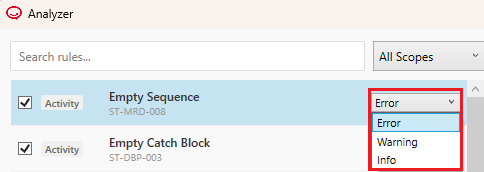
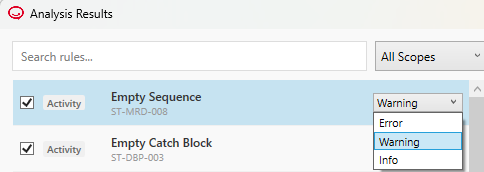
docs: add Japanese translations for Office 365 categories and Studio development guidelines

diff --git a/docs/studio/latest/user-guide/development-guidelines.md b/docs/studio/latest/user-guide/development-guidelines.md
@@ -1,0 +1,332 @@
+---
+id: development-guidelines
+title: Development Guidelines
+sidebar_label: Development Guidelines
+sidebar_position: 10
+description: Recommended rules for building automation projects with akaBot Studio, covering project setup, workflow design, naming, security, logging, selectors, and quality checks with Workflow Analyzer.
+displayed_sidebar: studioSidebar
+---
+
+# Development Guidelines
+
+This guide describes the rules to follow when you build automation projects with akaBot Studio. Following them helps the people who maintain, review, and run your robot, such as teammates, reviewers, and administrators, read and understand it.
+
+Many of the rules in this guide are checked automatically by [Workflow Analyzer](./workflow-analyzer/about-workflow-analyzer.md). Where a rule is enforced by Workflow Analyzer, the guide gives its rule ID, for example `ST-MRD-009`, and its default value.
+
+## Who should read this guide
+
+This guide is for developers and citizen automators who use akaBot Studio to build automation projects. The robots that run your projects are either Attended or Unattended.
+
+| | Attended | Unattended |
+| --- | --- | --- |
+| **Strength** | Assists individual users with small, repetitive tasks, and collaborates with humans to complete long-running processes. | Runs long processes without human interaction. |
+| **How it starts** | A user or a specific user event triggers the process. | The robot is assigned tasks and scheduled to run through akaBot Center. |
+| **Where Agent runs** | On the same machine where the user does daily work. | On any machine connected to akaBot Center. |
+
+For more details, see [Attended - Unattended Agent](/docs/agent/latest/user-guide/attended-unattended.md).
+
+## 1. Before you start
+
+### 1.1. Activate your license
+
+akaBot Studio needs a license before you can use it. Choose the activation method that suits your environment:
+
+- **Online Activation**: for a Standard license on a computer with an Internet connection.
+- **Offline Activation**: for a Standard license on a computer without an Internet connection.
+- **Activation through akaBot Center**: for an Enterprise (Network) license. Your Studio computer must be able to connect to your akaBot Center.
+
+When Studio starts, choose **LMS (License Management System)** for a Standard license, or **akaBot Center** for an Enterprise (Network) license. For a Standard license, you then choose Online or Offline activation.
+
+![Choose the license type in the akaBot activation window](/static/img/image-20230717142628-1.png)
+
+![Choose Online or Offline activation](/static/img/image-20230717142628-2.png)
+
+If your network connects to the Internet or akaBot Center through a proxy server, prepare the proxy information before you activate. For the full steps, see [License Activation](../installation/activation.md).
+
+### 1.2. Check your package sources
+
+Studio installs activity packages from package sources. By default, Studio uses these sources:
+
+| Source | Location |
+| --- | --- |
+| Local folder for the current user | `%localappdata%\akaBot\Packages` |
+| Local folder for the machine | `%programdata%\akaBot\Packages` |
+| NuGet.org | `https://api.nuget.org/v3/index.json` |
+| akaBot package feed on GitLab | `https://gitlab.com/api/v4/projects/75840319/packages/nuget/index.json` |
+
+In **Package Manager** on the **Home** tab, you can also add your own package source. Each source needs a unique name and either an address or a local folder.
+
+If your network reaches the Internet through a proxy server, allow access to the GitLab and NuGet.org addresses. See [Configure akaBot in an on-premises network with an internet proxy](../installation/on-prem-network-requirements.md).
+
+Your organization can restrict or require packages with the Workflow Analyzer rules [Package Restrictions](./workflow-analyzer/usage/package-restrictions.md) (`ST-USG-014`) and [Required Packages](./workflow-analyzer/usage/required-packages.md) (`ST-USG-027`).
+
+### 1.3. Install the akaBot Web Extension
+
+To automate websites, install the akaBot Web Extension for your browser. akaBot supports the Chrome, Edge, and Firefox extensions.
+
+1. In akaBot Studio, open **Options**, and then select **Extensions**.
+2. In the section of your browser, click **Install**.
+3. If the browser is running, Studio asks you to close it. Click **OK** to continue.
+4. Reopen the browser and enable the extension when the browser prompts you. You can also turn it on from the browser's Extensions page.
+
+![Install the akaBot extension from Options > Extensions](/static/img/9453eb_1773283802504-331.png)
+
+For the full steps, see [How to install Akabot Web Extension](./how-to-install-akabot-web-extension.md).
+
+To automate Java applications, install and enable Java Access Bridge. See [Install and Enable Java Access Bridge](/docs/activities/java/latest/introduction.md).
+
+To automate SAP GUI, enable SAP GUI Scripting on both your PC and the SAP server. See [SAP Logon](/docs/activities/sap/latest/activities/sap-logon.md).
+
+To automate Citrix or Remote Desktop, use the CV selector or the Image selector. See [Choose the right selector type](#choose-the-right-selector-type).
+
+If your browser updates automatically, the browser driver may no longer match the browser version, and your robot may fail at run time. Update the driver as described in [Configure Browser Driver](../installation/configure-browser-driver.md), and then turn on **Auto Detect** in Studio under **Options > Execution > Browser Version**.
+
+### 1.4. Where to find help
+
+- The akaBot documentation: the [Studio user guide](./how-to-use.md) describes the interface and common tasks, the Activities section describes each activity and its properties, and each Workflow Analyzer rule has a description and a recommendation.
+- The [Debugger](./how-to-use-debugger.md) and the **Open Logs** button on the **Home** tab help you investigate what a robot did.
+- [AkaNinja](./how-to-use-akaninja.md), the AI assistant built into Studio, can explain activities and their properties, analyze an error message and suggest how to resolve it, and generate VB.NET or C# expressions. Configure the AI provider in **Options > AI Integration** before you use it.
+
+  ![The AkaNinja panel in akaBot Studio](/static/img/ask-ai.png)
+- The [akaBot Academy](https://akademy.akabot.com/courses) offers courses, and the [Community Forum](https://community.akabot.com/) lets you ask other akaBot users.
+- You can also contact the akaBot support team at [support@akabot.com](mailto:support@akabot.com).
+
+## 2. Basic development rules
+
+### 2.1. Project
+
+- Every project needs a file named `Main.xaml` in its root folder. This file is the entry point of the project. When you run a published project through akaBot Center or Agent, execution starts from `Main.xaml`. Workflow Analyzer reports a missing `Main.xaml` as an error (`ST-ANA-006`).
+- If your main workflow has another name, rename it to `Main.xaml`, or right-click it in the **Project** panel and select **Set as Main**.
+
+![The Main Workflow Exists rule in Workflow Analyzer](/static/img/st-ana-006.png)
+
+- When you create a project, enter a name and a description. The description is required and can have at most 250 characters. It appears in the **Description** column of the **Package** page in akaBot Center after you publish the project, so use it to summarize what the process does.
+
+![The New Project window with the Name, Location, and Description fields](/static/img/image-20220506161409-4.png)
+
+#### Project name rules
+
+Studio checks the project name when you create it. A project name must follow these rules:
+
+- Use only letters, digits, underscore (`_`), period (`.`), and hyphen (`-`).
+- Do not use spaces, either half-width or full-width.
+- Do not start or end the name with a period or a hyphen.
+- Do not use `..`, `--`, or `.-` in a row.
+- Use at most 50 characters.
+
+| Valid names | Invalid names |
+| --- | --- |
+| `Invoice_Check` | `Invoice Check` (contains a space) |
+| `RPA00301-1` | `-Invoice` (starts with a hyphen) |
+| `Invoice.Check_01` | `Invoice..Check` (two periods in a row) |
+
+### 2.2. Workflow
+
+#### Choose the workflow type
+
+| Type | Use it when |
+| --- | --- |
+| **Sequence** | The process is linear, going from one activity to the next. |
+| **Flowchart** | The business logic is complex and needs decisions and multiple branches. |
+| **State Machine** | The project is very large and has many states triggered by transition conditions. |
+
+You can create all three types from the **New** button on the **Home** tab.
+
+![The New menu with Sequence, Flowchart, and State Machine](/static/img/dev-guidelines-new-menu.png)
+
+#### Keep workflows shallow and modular
+
+Deeply nested logic is hard to read, test, and maintain. Break complex logic into smaller workflows and call them with the **Invoke Workflow File** activity. Workflow Analyzer checks the following limits by default. You can change the values in **Analyze Settings**.
+
+| What is checked | Rule ID | Default value |
+| --- | --- | --- |
+| Activities nested inside one another | `ST-MRD-009` | 7 levels |
+| `If` activities nested inside one another | `ST-MRD-007` | 3 levels |
+| Flowchart layers | `ST-DBP-007` | 1 layer |
+| Arguments in one workflow | `ST-DBP-002` | 20 |
+| Workflow files in a project | `ST-ANA-003` | Information only, no limit |
+
+![The Flowchart Nesting rule and its MaxLayers parameter](/static/img/st-dbp-007.png)
+
+A project with only one or two workflows can become one large, hard-to-debug file. A project with dozens of tiny workflows can be hard to trace. Use the workflow count as a reference during code reviews.
+
+### 2.3. Activity
+
+- **Give each activity a meaningful display name.** Do not keep default names such as `Click` or `Type Into`. Describe what the activity does in the process, for example `Click Login Button` or `Enter Username` (`ST-MRD-002`). The rule does not check `Sequence`, `Flowchart`, and `StateMachine` by default, and you can change this list in the **ExcludedActivities** parameter.
+
+  ![The Activity Naming rule with the ExcludedActivities parameter](/static/img/st-mrd-002.png)
+- **Use a unique display name for each activity in a workflow** (`ST-NMG-004`).
+- **Remove leftovers.** Workflow Analyzer reports the following cases:
+  - A `Sequence` with no child activities (`ST-MRD-008`).
+  - A `Sequence` that contains only one activity (`ST-MRD-005`).
+  - An `If` whose `Then` and `Else` branches are both empty (`ST-MRD-017`).
+  - A workflow file with no executable activities (`ST-DBP-023`).
+
+  Delete what you no longer need, or complete the logic. If you leave a branch empty on purpose, add a `Comment` activity that explains why.
+
+### 2.4. Variables and arguments
+
+#### Variables
+
+| Rule | Rule ID | Default |
+| --- | --- | --- |
+| Variable names follow the naming convention. | `ST-NMG-001` | Prefix `v_`, for example `v_Result`. The Regex is empty by default and can be configured. |
+| DataTable variable names start with `dt_`. | `ST-NMG-009` | Prefix `dt_`, for example `dt_EmployeeData`. |
+| Variable names are not too long. | `ST-NMG-008` | 20 characters |
+| A variable does not share a name with an argument. | `ST-NMG-006` | |
+| A variable in an inner scope does not reuse the name of a variable in an outer scope. | `ST-NMG-005` | |
+
+You can change the prefix and the Regex in **Analyze Settings** to match your organization's convention. For example, you can use prefixes by data type such as `str_`, `int_`, `bool_`, `list_`, and `dict_`.
+
+![The Variable Naming rule with the Regex and Prefix parameters](/static/img/st-nmg-01.png)
+
+#### Arguments
+
+Argument names should not exceed 30 characters (`ST-NMG-016`). When you create an argument, choose its direction: **In**, **Out**, **In/Out**, or **Property**.
+
+![The Arguments panel with the Direction list](/static/img/dev-guidelines-arguments-panel.png)
+
+#### Expression language
+
+akaBot Studio supports both VB.NET and C# as the expression language of a project. For C# projects, see [C# Expression Editor & IntelliSense](./csharp-expression-editor.md).
+
+### 2.5. Credentials and sensitive data
+
+akaBot Studio provides these ways to handle IDs, passwords, and other sensitive values:
+
+| Option | How it works |
+| --- | --- |
+| **Windows Credential Manager** | The **Add Credential** activity stores a credential. The **Get Secure Credential** activity retrieves it by name and returns the username as a `String` and the password as a secure string. The activities are under **Core > Credentials**. See [Credentials](/docs/activities/core/latest/credential/credential.md). |
+| **Assets in akaBot Center** | An Asset of type **Credential** stores a username and password. Credentials stored in Center are encrypted with the AES 256 algorithm, and their values can be hidden from developers. The **Get Agent Credential** activity retrieves a credential by Asset Name. See [Assets](/docs/center/latest/user-guide/how-to-use-by-function/operation-functions/assets.md). |
+| **SecureString** | The `System.Security.SecureString` type holds sensitive text in memory. Use the **Type Secure Text** activity to type it into an application. |
+
+To create a Credential asset in akaBot Center, open the **Assets** page, click **Create new**, and select **Credential** as the type.
+
+![The Create a new Asset window in akaBot Center](/static/img/8eaeee_image-20221101105313-7.png)
+
+Follow these rules when you work with sensitive values:
+
+- Use the `SecureString` type for arguments and variables whose names contain a sensitive keyword. By default, Workflow Analyzer checks for `password`, `secret`, `token`, `credential`, `pass`, and `apikey`. A violation is reported as an **Error** (`ST-SEC-007` for arguments and `ST-SEC-008` for variables). You can edit the keyword list in the rule's **Keywords** parameter.
+- Define variables that contain credentials in the narrowest scope possible.
+- Do not use arguments to pass credentials from one workflow to another.
+- The **Add Credential**, **Get Secure Credential**, and **Log Message** activities have a **Public** option. Consider your data security requirements before you select it. In the Salesforce, SAP, and Data Service activities that have this option, selecting **Public** writes the values of variables and arguments to the log at the `Verbose` level.
+
+![The SecureString for Sensitive Variables rule with the Keywords parameter](/static/img/st-sec-008.png)
+
+### 2.6. Logging and error handling
+
+- Use **Log Message** to record what the robot does. It has five levels: `Trace`, `Info`, `Warn`, `Error`, and `Fatal`. Log messages are also sent to akaBot Center and shown on the **Logs** page, so consider data security before you include sensitive data in a message.
+
+  ![The Log Message activity with the Level and Message fields](/static/img/b26e3e_image-20220505092805-1.jpeg)
+- Add at least two **Log Message** activities to each workflow (`ST-USG-020`, `MinLogs` defaults to 2). Log at the start, at the end, and at important decision points.
+
+  ![The Minimum Log Messages rule with the MinLogs parameter](/static/img/st-usg-020.png)
+- Do not leave a `Catch` block empty (`ST-DBP-003`). An empty `Catch` hides the error, and the robot fails without leaving a trace. Add at least a **Log Message** activity to record the error details.
+- By default, the logs show messages from the `Info` level and higher. To see more detail, open **Agent Settings**, select the **Center** tab, and change the **Logging level**. For example, at the `Verbose` level, messages written with **Log Message** at the `Trace` level are also included. See [Agent Logs](/docs/agent/latest/user-guide/logs.md).
+- To open the folder that contains the log files, click **Open Logs** on the **Home** tab. The log files are stored in `%localappdata%\akaBot\Logs\`.
+
+### 2.7. Practices to avoid
+
+Avoid the following practices to reduce the risk of security incidents and serious failures when a robot runs into an error.
+
+#### Do not write confidential information or personal data to logs
+
+Writing confidential information or personal data to a log can lead to a security incident. Do not put passwords, tokens, or personal data in a **Log Message**, and consider your data security requirements before you select the **Public** option. See [Credentials and sensitive data](#25-credentials-and-sensitive-data) and [Logging and error handling](#26-logging-and-error-handling).
+
+#### Do not output large amounts of unnecessary logs
+
+Logs are used to check how a process ran and to investigate incidents. Avoid writing too many unnecessary log messages, especially inside a loop.
+
+#### Do not automate the approval, submission, or sending of an email
+
+Limit the scope of automation to the step just before the approval, submission, or email sending. A person performs the final step. This limits the risk of a serious incident if the robot fails for any reason.
+
+For example, in a process that sends an email to a customer, the robot does the following steps, and a person sends the email:
+
+1. Read the data from an Excel file.
+2. Check and get the data in the system.
+3. Compose the email for the customer.
+
+#### Do not update a file directly without a backup
+
+Before you edit or update a target file, create a backup copy of it, for example with the **Copy File** activity. If a processing error occurs, you can restore the file to its original state.
+
+## 3. Advanced development rules
+
+### 3.1. Waiting for and locating elements
+
+#### Avoid fixed delays
+
+A fixed **Delay** can make an automation brittle (`ST-DBP-026`). Wait for a condition instead. For example, the Native Browser package provides **Wait Element Vanishes**, **Wait Page Load Complete**, **Wait Page Title**, **Wait Page URL**, and **Wait Web Attribute**, and the **Element Exist** activity checks whether an element exists.
+
+If you must use **Delay**, do not type the duration directly into the activity (`ST-PRR-004`). Store it in a variable, an argument, or a configuration file, so that you can use a different value in Test and Production without editing the workflow.
+
+#### Choose the right selector type
+
+When you indicate an element on screen, Studio can generate several selector types. You can enable more than one type. At run time, Studio tries them in sequence and falls back to the next one if the first cannot find the element.
+
+![The Selection Options window](/static/img/selection-options.png)
+
+| Selector type | Use it when |
+| --- | --- |
+| **Strict selector** | The application has a clean, stable structure with reliable attributes. It is the fastest and most precise method. |
+| **Fuzzy selector** | Element attributes have slight variations or dynamic tokens. It compares attributes using an **Accuracy** value from 0.4 to 1.0 (default 0.5). |
+| **Image** | The element has no accessible technical attributes, or it is in a virtualized, canvas, or remote desktop environment. It uses an **Accuracy** value from 0.5 to 1.0 (default 0.8). |
+| **CV selector** | You automate Citrix, Remote Desktop, or image-heavy interfaces where the element tree is not available. |
+| **Semantic selector** | A web page changes often. You describe the element in plain English, for example `Button Save`. |
+
+The semantic selector needs a connection to a Computer Vision (CV) server. Your system administrator sets the server address in the `cvsettings.json` file in the project folder, and you must place the activity inside an **Open/Attach Application** or **Open/Attach Browser** scope.
+
+For more details, see the [Selector Guide](/docs/activities/common/latest/user-guide/selector-guide.md), [Getting Started with Semantic Selector](/docs/activities/common/latest/user-guide/semantic-selector-howto.md), and [How to use UI Explorer](./how-to-use-UI-Explorer.md).
+
+### 3.2. Check your project with Workflow Analyzer
+
+Workflow Analyzer analyzes your workflows without running them. Run it regularly while you develop, and run it on the entire project before you publish.
+
+1. Resolve all activity validation errors first. Workflow Analyzer can analyze only valid workflows.
+2. On the **Home** tab, click **Analyze**, and then select **Analyze File**, **Analyze Project**, or **Analyze Settings**.
+3. Review the results in the **Analysis Results** window. You can filter the results and export a report in HTML or CSV format.
+
+![The Analysis Results window](/static/img/managing-errors.png)
+
+![The Analyze menu in akaBot Studio](/static/img/about-workflow-analyzer.png)
+
+Each rule has a severity:
+
+| Severity | Meaning |
+| --- | --- |
+| **Error** | Resolve it before you run, publish, or deploy the project. |
+| **Warning** | A recommended improvement to code quality or maintainability. |
+| **Info** | Informational guidance. |
+
+By default, all rules are enabled. In akaBot Studio 3.2.4.0, the following rules are reported as **Error** by default. The other rules are reported as **Warning** or **Info**:
+
+| Rule ID | Rule |
+| --- | --- |
+| `ST-ANA-006` | Main Workflow Exists |
+| `ST-SEC-007` | SecureString for Sensitive Arguments |
+| `ST-SEC-008` | SecureString for Sensitive Variables |
+| `ST-USG-014` | Package Restrictions |
+
+You can enable or disable a rule, change its severity, and change its parameters in **Analyze Settings**.
+
+![The rule list with the severity dropdown](/static/img/severity-levels.png)
+
+For the full list of rules, see [Workflow Analyzer Rules](./workflow-analyzer/analyze-rules.md). To run the analysis from the command line, see [About Workflow Analyzer](./workflow-analyzer/about-workflow-analyzer.md).
+
+### 3.3. Debug and publish
+
+- Debug your project on the machine where Studio is installed before you publish it. See [How to Use the Debugger](./how-to-use-debugger.md).
+
+![The Debug tab with the Breakpoints, Step Into, Step Over, and Slow Step actions](/static/img/debug-actions-ribbon.png)
+
+- Publish the project from the **Home** tab. You can publish to **Center** or **Local**. When you publish to Center, Studio and Agent must be connected to Center, and your account must have the required permissions. You can add Release Notes, and the version is generated automatically. If you edit the version, it must be in the `x.x.x.x` format and greater than the current version. See [How to Use akaBot Studio](./how-to-use.md#publish-package).
+
+![The Publish window with the Publish to, New Version, and Release Notes fields](/static/img/image-20230413154502-2.png)
+
+## Related topics
+
+- [How to Use akaBot Studio](./how-to-use.md)
+- [Workflow Analyzer Rules](./workflow-analyzer/analyze-rules.md)
+- [How to Use the Debugger](./how-to-use-debugger.md)
+- [Selector Guide](/docs/activities/common/latest/user-guide/selector-guide.md)
